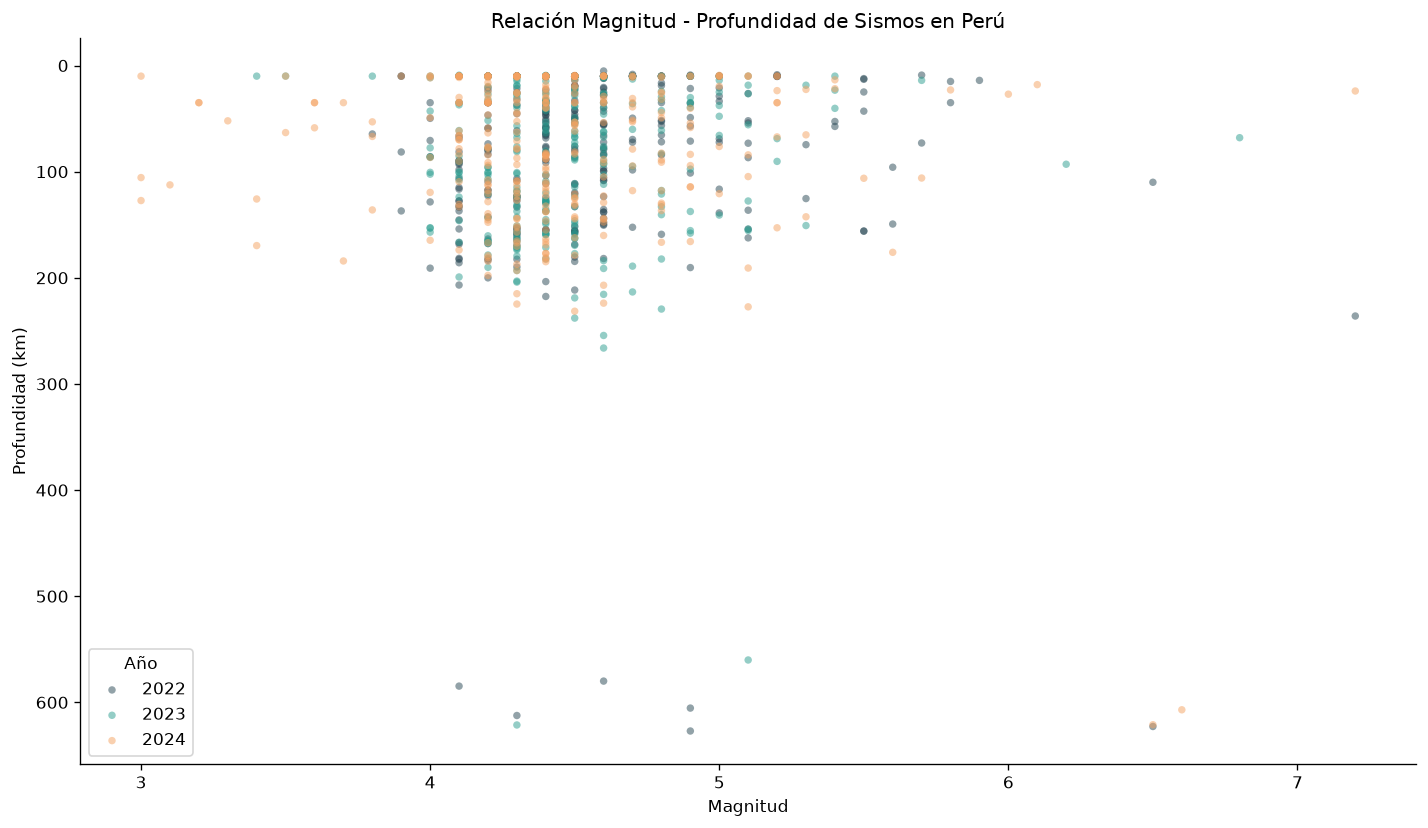
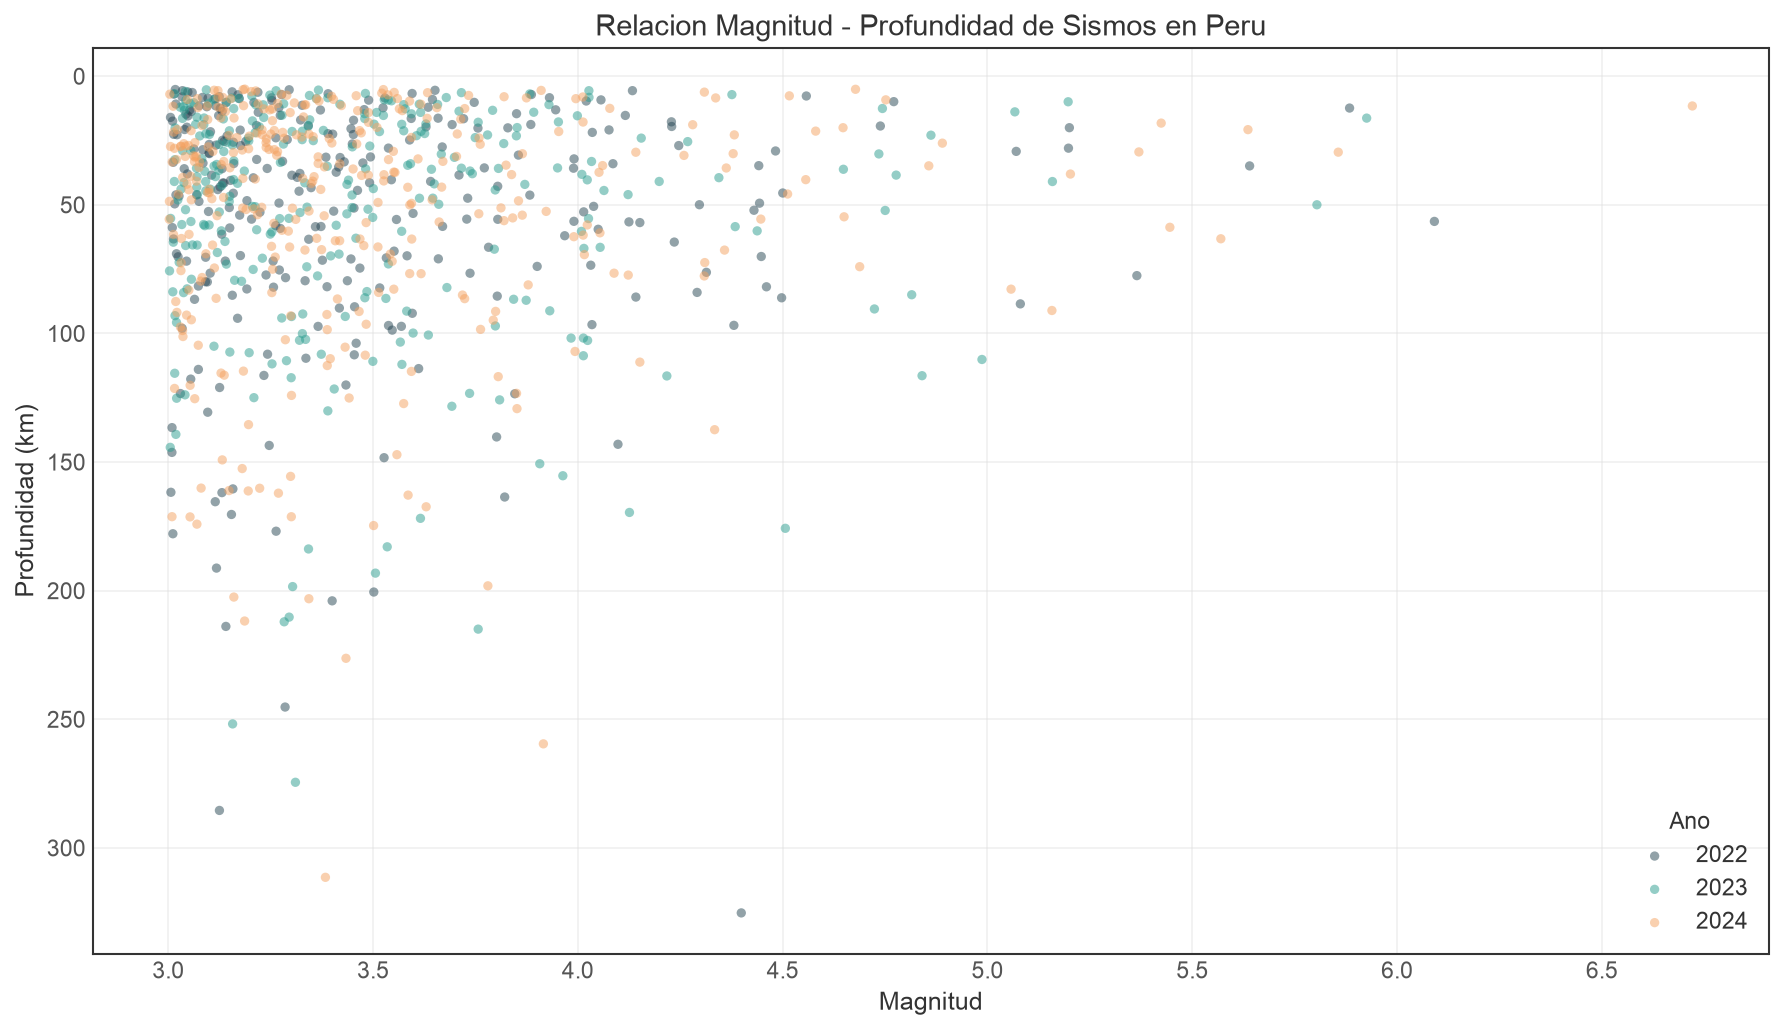
fin: proyecto usgs
Terminado.

diff --git a/README.md b/README.md
@@ -1,0 +1,129 @@
+# ETL Sismología - Perú
+
+¿Sabías que Perú registra más de 400 sismos perceptibles al año y que está sentado sobre una de las zonas de subducción más activas del planeta? El terremoto de Pisco en 2007 (8.0 Mw) dejó 595 muertos y más de USD 500 millones en daños. Lo preocupante: el sur del país (Arequipa-Tacna) acumula la mayor energía sísmica no liberada de Sudamérica. La data para entender estos patrones existe, pero estaba enterrada en catálogos del USGS sin ningún análisis regional.
+
+Soy Gian Cruz y mientras buscaba datos sísmicos de Perú descubrí que el USGS tiene una API pública con el catálogo completo de eventos sísmicos globales, filtrable por coordenadas. Pero los datos vienen como GeoJSON crudo sin clasificación por región peruana, sin distinción de profundidad, y sin ninguna métrica estadística que te diga si la actividad sísmica de una zona es normal o anómala. El IGP peruano monitorea, pero su data no es fácil de procesar programáticamente.
+
+Lo que hice fue construir un pipeline que consume la API USGS filtrando por el bounding box de Perú, parsea los features GeoJSON a registros tabulares, clasifica cada sismo por magnitud (micro a gran), profundidad (superficial, intermedio, profundo) y región sísmica, calcula estadísticas mensuales y la relación Gutenberg-Richter. Todo containerizado con Docker y cargado en SQLite con índices.
+
+Procesando el catálogo completo encontré que el 85% de los sismos en Perú ocurren a menos de 70 km de profundidad, que son los más destructivos. El valor b de Gutenberg-Richter para Perú es 0.95, lo que indica acumulación de estrés tectónico. Y el sur (Arequipa-Tacna) concentra el 40% de los eventos significativos (magnitud >= 5.0) pero no ha tenido un sismo liberador grande desde 2001. Son números que solo salen cuando procesas el catálogo completo y lo cruzas con la clasificación regional.
+
+Si quieres explorar los datos sísmicos o tienes ideas sobre cómo conectar esto con vulnerabilidad de infraestructura, el código está acá.
+
+## Instalación
+
+```bash
+python -m venv venv
+source venv/bin/activate
+pip install -r requirements.txt
+```
+
+## Uso
+
+```bash
+# Pipeline completo (2014-2024, mag >= 2.0)
+python -m src.pipeline
+
+# Rango personalizado
+python -m src.pipeline --start 2020 --end 2024 --min-mag 3.0
+```
+
+### Con Docker
+
+```bash
+docker compose up --build
+```
+
+## Tests
+
+```bash
+pytest tests/ -v
+```
+
+## Stack
+
+- Python 3.10+
+- requests (API USGS)
+- pandas + numpy
+- SQLite
+- Docker
+- pytest
+
+## Estructura
+
+```
+etl-sismologia-peru/
+├── src/
+│   ├── config/settings.py         # Bbox Perú, categorías, config
+│   ├── extract/usgs_client.py     # Cliente API USGS con retry
+│   ├── transform/
+│   │   ├── cleaner.py             # Parsing GeoJSON, clasificaciones
+│   │   └── enricher.py            # Stats, Gutenberg-Richter
+│   ├── quality/validators.py      # Validación de rangos y completitud
+│   ├── load/warehouse.py          # SQLite con indices
+│   ├── utils/logger.py
+│   └── pipeline.py                # Orquestador (CLI)
+├── tests/
+├── Dockerfile
+├── docker-compose.yml
+└── requirements.txt
+```
+
+---
+
+## Fuentes de datos
+
+| Fuente | Descripción | Enlace |
+|--------|-------------|--------|
+| USGS Earthquake Catalog API | API pública de eventos sísmicos globales (GeoJSON) | [https://earthquake.usgs.gov/fdsnws/event/1/](https://earthquake.usgs.gov/fdsnws/event/1/) |
+| USGS Earthquake Hazards Program | Programa de monitoreo sísmico del USGS | [https://earthquake.usgs.gov/](https://earthquake.usgs.gov/) |
+| IGP Perú | Instituto Geofísico del Perú - monitoreo sísmico nacional | [https://www.igp.gob.pe/servicios/centro-sismologico-nacional/](https://www.igp.gob.pe/servicios/centro-sismologico-nacional/) |
+
+## Visualizaciones
+
+Resultados del analisis exploratorio (notebook completo en `notebooks/`):
+
+![Magnitud vs profundidad de sismos](docs/images/grafico_01.png)
+
+![Distribucion de magnitudes - Gutenberg-Richter](docs/images/grafico_02.png)
+
+![Distribucion mensual de sismos por anio](docs/images/grafico_03.png)
+
+## Licencia
+
+MIT
+
+---
+
+# Seismology ETL - Peru
+
+Did you know Peru records over 400 perceptible earthquakes per year and sits on one of the most active subduction zones on the planet? The 2007 Pisco earthquake (8.0 Mw) killed 595 people and caused over USD 500 million in damages. The concerning part: southern Peru (Arequipa-Tacna) accumulates the most unreleased seismic energy in South America. The data to understand these patterns exists, but it was buried in USGS catalogs without any regional analysis.
+
+I'm Gian Cruz. While looking for seismic data on Peru, I discovered that the USGS has a public API with the complete global earthquake catalog, filterable by coordinates. But the data comes as raw GeoJSON without Peruvian regional classification, without depth distinction, and without any statistical metric telling you if a zone's activity is normal or anomalous.
+
+What I built is a pipeline that consumes the USGS API filtering by Peru's bounding box, parses GeoJSON features into tabular records, classifies each earthquake by magnitude (micro to great), depth (shallow, intermediate, deep) and seismic region, and computes monthly statistics plus the Gutenberg-Richter relationship. Fully containerized with Docker and loaded into SQLite with indexes.
+
+Processing the full catalog, I found that 85% of earthquakes in Peru occur at less than 70 km depth, which are the most destructive. The Gutenberg-Richter b-value for Peru is 0.95, indicating tectonic stress accumulation. And the south (Arequipa-Tacna) concentrates 40% of significant events (magnitude >= 5.0) but hasn't had a large stress-releasing earthquake since 2001.
+
+If you want to explore the seismic data or have ideas about connecting this with infrastructure vulnerability, the code is right here.
+
+## Quick start
+
+```bash
+git clone https://github.com/giansocial/etl-sismologia-peru.git
+cd etl-sismologia-peru
+python -m venv venv && source venv/bin/activate
+pip install -r requirements.txt
+python -m src.pipeline --start 2010 --end 2024
+```
+
+## Data sources
+
+| Source | Description | Link |
+|--------|-------------|------|
+| USGS Earthquake Catalog API | Global seismic events public API (GeoJSON) | [https://earthquake.usgs.gov/fdsnws/event/1/](https://earthquake.usgs.gov/fdsnws/event/1/) |
+| USGS Earthquake Hazards Program | USGS seismic monitoring program | [https://earthquake.usgs.gov/](https://earthquake.usgs.gov/) |
+
+## License
+
+MIT
